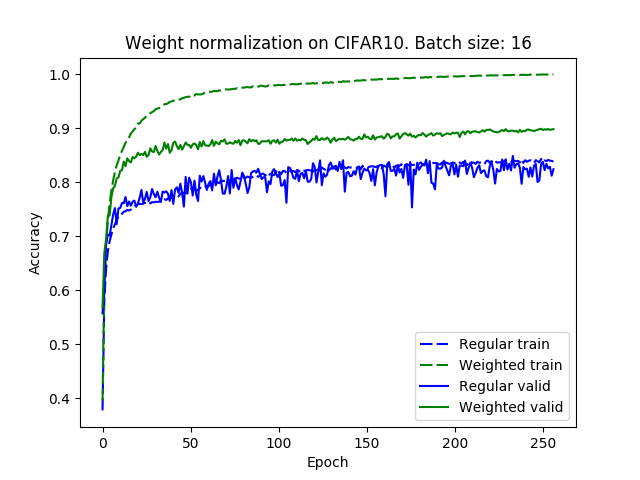
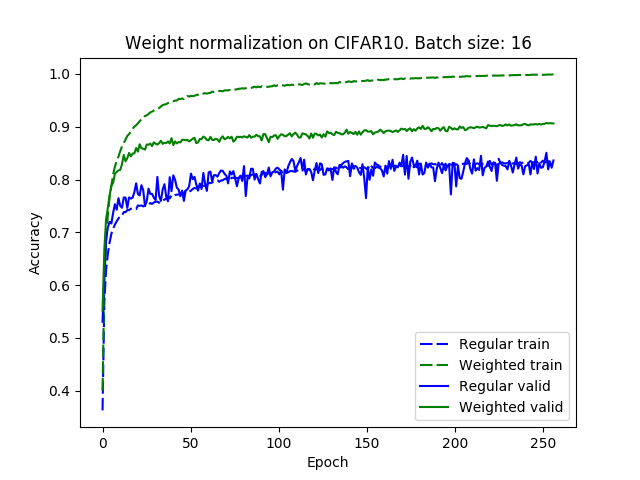
Fix and re-evaluate weight normalization layer

diff --git a/examples/weight_norm/cifar10/model.py b/examples/weight_norm/cifar10/model.py
@@ -14,9 +14,9 @@ class Cifar10Model(keras.Model):
         # ZCA whitening should be applied to input
         self.noise = keras.layers.GaussianNoise(0.15, input_shape=(32, 32, 3))
 
-        conv1 = keras.layers.Conv2D(96, 3, strides=1, activation=K.nn.leaky_relu, padding='same')
-        conv2 = keras.layers.Conv2D(96, 3, strides=1, activation=K.nn.leaky_relu, padding='same')
-        conv3 = keras.layers.Conv2D(96, 3, strides=1, activation=K.nn.leaky_relu, padding='same')
+        conv1 = keras.layers.Conv2D(96, 3, strides=1, activation='leaky_relu', padding='same')
+        conv2 = keras.layers.Conv2D(96, 3, strides=1, activation='leaky_relu', padding='same')
+        conv3 = keras.layers.Conv2D(96, 3, strides=1, activation='leaky_relu', padding='same')
         self.conv1 = WeightNormalization(conv1) if weight_norm else conv1
         self.conv2 = WeightNormalization(conv2) if weight_norm else conv2
         self.conv3 = WeightNormalization(conv3) if weight_norm else conv3
@@ -24,9 +24,9 @@ class Cifar10Model(keras.Model):
         self.pool1 = keras.layers.MaxPooling2D(pool_size=(2, 2), strides=2)
         self.drop1 = keras.layers.Dropout(0.5)
 
-        conv4 = keras.layers.Conv2D(192, 3, strides=1, activation=K.nn.leaky_relu, padding='same')
-        conv5 = keras.layers.Conv2D(192, 3, strides=1, activation=K.nn.leaky_relu, padding='same')
-        conv6 = keras.layers.Conv2D(192, 3, strides=1, activation=K.nn.leaky_relu, padding='same')
+        conv4 = keras.layers.Conv2D(192, 3, strides=1, activation='leaky_relu', padding='same')
+        conv5 = keras.layers.Conv2D(192, 3, strides=1, activation='leaky_relu', padding='same')
+        conv6 = keras.layers.Conv2D(192, 3, strides=1, activation='leaky_relu', padding='same')
         self.conv4 = WeightNormalization(conv4) if weight_norm else conv4
         self.conv5 = WeightNormalization(conv5) if weight_norm else conv5
         self.conv6 = WeightNormalization(conv6) if weight_norm else conv6
@@ -34,9 +34,9 @@ class Cifar10Model(keras.Model):
         self.pool2 = keras.layers.MaxPooling2D(pool_size=(2, 2), strides=2)
         self.drop2 = keras.layers.Dropout(0.5)
 
-        conv7 = keras.layers.Conv2D(192, 3, strides=2, activation=K.nn.leaky_relu, padding='same')
-        conv8 = keras.layers.Conv2D(192, 1, strides=1, activation=K.nn.leaky_relu, padding='same')
-        conv9 = keras.layers.Conv2D(192, 1, strides=1, activation=K.nn.leaky_relu, padding='same')
+        conv7 = keras.layers.Conv2D(192, 3, strides=2, activation='leaky_relu', padding='same')
+        conv8 = keras.layers.Conv2D(192, 1, strides=1, activation='leaky_relu', padding='same')
+        conv9 = keras.layers.Conv2D(192, 1, strides=1, activation='leaky_relu', padding='same')
         self.conv7 = WeightNormalization(conv7) if weight_norm else conv7
         self.conv8 = WeightNormalization(conv8) if weight_norm else conv8
         self.conv9 = WeightNormalization(conv9) if weight_norm else conv9

diff --git a/examples/weight_norm/cifar10/cifar10_test.py b/examples/weight_norm/cifar10/cifar10_test.py
@@ -32,37 +32,38 @@ if __name__ == "__main__":
 
     train_dataset, test_dataset = data_generator(argv.batch_size)
 
-    # Train weighted
-    weighted_model = Cifar10Model(weight_norm=True)
-    weighted_model.compile(
-        optimizer=keras.optimizers.Adam(lr=argv.initial_lr, beta_1=0.9),
-        loss='sparse_categorical_crossentropy',
-        metrics=['accuracy'],
-        run_eagerly=False,
-    )
-    weighted_metrics = weighted_model.fit_generator(
-        generator=train_dataset,
-        epochs=argv.epoch_count,
-        validation_data=test_dataset,
-        callbacks=[lr_decay_callback(weighted_model, argv.initial_lr, argv.epoch_count)],
-    ).history
-    weighted_model.summary()
+    with keras.utils.custom_object_scope({'leaky_relu': K.nn.leaky_relu}):
+        # Train weighted
+        weighted_model = Cifar10Model(weight_norm=True)
+        weighted_model.compile(
+            optimizer=keras.optimizers.Adam(lr=argv.initial_lr, beta_1=0.9),
+            loss='sparse_categorical_crossentropy',
+            metrics=['accuracy'],
+            run_eagerly=False,
+        )
+        weighted_metrics = weighted_model.fit(
+            train_dataset,
+            epochs=argv.epoch_count,
+            validation_data=test_dataset,
+            callbacks=[lr_decay_callback(weighted_model, argv.initial_lr, argv.epoch_count)],
+        ).history
+        weighted_model.summary()
 
-    # Train regular
-    regular_model = Cifar10Model(weight_norm=False)
-    regular_model.compile(
-        optimizer=keras.optimizers.Adam(lr=argv.initial_lr, beta_1=0.9),
-        loss='sparse_categorical_crossentropy',
-        metrics=['accuracy'],
-        run_eagerly=False,
-    )
-    regular_metrics = regular_model.fit_generator(
-        generator=train_dataset,
-        epochs=argv.epoch_count,
-        validation_data=test_dataset,
-        callbacks=[lr_decay_callback(weighted_model, argv.initial_lr, argv.epoch_count)],
-    ).history
-    regular_model.summary()
+        # Train regular
+        regular_model = Cifar10Model(weight_norm=False)
+        regular_model.compile(
+            optimizer=keras.optimizers.Adam(lr=argv.initial_lr, beta_1=0.9),
+            loss='sparse_categorical_crossentropy',
+            metrics=['accuracy'],
+            run_eagerly=False,
+        )
+        regular_metrics = regular_model.fit(
+            train_dataset,
+            epochs=argv.epoch_count,
+            validation_data=test_dataset,
+            callbacks=[lr_decay_callback(weighted_model, argv.initial_lr, argv.epoch_count)],
+        ).history
+        regular_model.summary()
 
     # Draw metrics
     interval = np.linspace(0, argv.epoch_count, argv.epoch_count)
